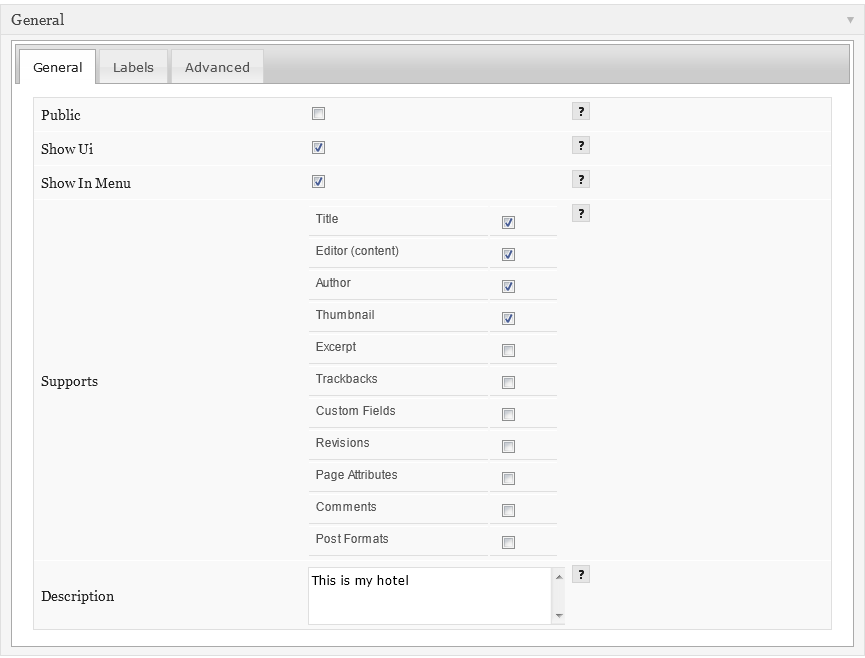
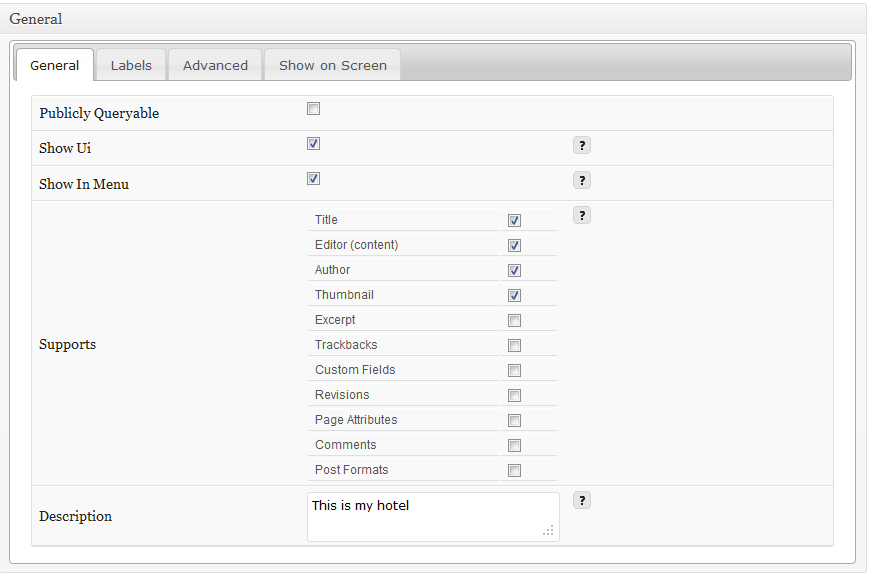
git-svn-id: https://plugins.svn.wordpress.org/mp-former/trunk@416145 b8457f37-d9ea-0310-8a92-e5e31aec5664

diff --git a/view/html/mp_object_taxons.html b/view/html/mp_object_taxons.html
@@ -10,10 +10,35 @@
                     <td><input type="text" name="mp_[object][object_taxons][#n][title]" /></td>
                     <td><span id="t_object_taxons_title" class="mp-ui-state-default ui-corner-all ui-icon ui-icon-help"></span></td>
                 </tr>
-                 <tr>
+                <tr>
                     <th><label id="l_object_taxons_hierarchical"></label></th>
                     <td><input type="checkbox" name="mp_[object][object_taxons][#n][hierarchical]" value="1" /></td>
                     <td><span id="t_object_taxons_hierarchical" class="mp-ui-state-default ui-corner-all ui-icon ui-icon-help"></span></td>
+                </tr>
+                <tr>
+                    <th><label id="l_object_taxons_rewrite"></label></th>
+                    <td><input type="checkbox" name="mp_[object][object_taxons][rewrite]" value="1" /></td>
+                    <td><span id="t_object_taxons_rewrite" class="mp-ui-state-default ui-corner-all ui-icon ui-icon-help"></span></td>
+                </tr>
+                <tr>
+                    <th><label id="l_object_taxons_query_var"></label></th>
+                    <td><input type="checkbox" name="mp_[object][object_taxons][query_var]" value="1" /></td>
+                    <td><span id="t_object_taxons_query_var" class="mp-ui-state-default ui-corner-all ui-icon ui-icon-help"></span></td>
+                </tr>
+                <tr>
+                    <th><label id="l_object_taxons_show_ui"></label></th>
+                    <td><input type="checkbox" name="mp_[object][object_taxons][show_ui]" value="1" /></td>
+                    <td><span id="t_object_taxons_show_ui" class="mp-ui-state-default ui-corner-all ui-icon ui-icon-help"></span></td>
+                </tr>
+                <tr>
+                    <th><label id="l_object_taxons_show_in_nav_menus"></label></th>
+                    <td><input type="checkbox" name="mp_[object][object_taxons][show_in_nav_menus]" value="1" /></td>
+                    <td><span id="t_object_taxons_show_in_nav_menus" class="mp-ui-state-default ui-corner-all ui-icon ui-icon-help"></span></td>
+                </tr>
+                <tr>
+                    <th><label id="l_object_taxons_show_tagcloud"></label></th>
+                    <td><input type="checkbox" name="mp_[object][object_taxons][show_tagcloud]" value="1" /></td>
+                    <td><span id="t_object_taxons_show_tagcloud" class="mp-ui-state-default ui-corner-all ui-icon ui-icon-help"></span></td>
                 </tr>
                 <tr>
                     <th><label id="l_object_taxons_labels_singular_name">Singular Name</label></th>
@@ -60,7 +85,7 @@
                     <td><input type="text" name="mp_[object][object_taxons][#n][labels][new_item_name]" /></td>
                     <td><span id="t_object_taxons_labels_new_item_name" class="mp-ui-state-default ui-corner-all ui-icon ui-icon-help"></span></td>
                 </tr>
-                 <tr>
+                <tr>
                     <th><label id="l_object_taxons_separate_items_with_commas">Separate Items with Commas</label></th>
                     <td><input type="text" name="mp_[object][object_taxons][#n][labels][separate_items_with_commas]" /></td>
                     <td><span id="t_object_taxons_labels_separate_items_with_commas" class="mp-ui-state-default ui-corner-all ui-icon ui-icon-help"></span></td>

diff --git a/view/html/mp_object_args.html b/view/html/mp_object_args.html
@@ -105,11 +105,6 @@
                     <td><span id="t_object_args_labels_add_new_item" class="mp-ui-state-default ui-corner-all ui-icon ui-icon-help"></span></td>
                 </tr>
                 <tr>
-                    <th><label id="l_object_args_labels_edit"></label></th>
-                    <td><input type="text" name="mp_[object][object_args][labels][edit]" /></td>
-                    <td><span id="t_object_args_labels_edit" class="mp-ui-state-default ui-corner-all ui-icon ui-icon-help"></span></td>
-                </tr>
-                <tr>
                     <th><label id="l_object_args_labels_edit_item"></label></th>
                     <td><input type="text" name="mp_[object][object_args][labels][edit_item]" /></td>
                     <td><span id="t_object_args_labels_edit_item" class="mp-ui-state-default ui-corner-all ui-icon ui-icon-help"></span></td>
@@ -118,11 +113,6 @@
                     <th><label id="l_object_args_labels_new_item"></label></th>
                     <td><input type="text" name="mp_[object][object_args][labels][new_item]" /></td>
                     <td><span id="t_object_args_labels_new_item" class="mp-ui-state-default ui-corner-all ui-icon ui-icon-help"></span></td>
-                </tr>
-                <tr>
-                    <th><label id="l_object_args_labels_view"></label></th>
-                    <td><input type="text" name="mp_[object][object_args][labels][view]" /></td>
-                    <td><span id="t_object_args_labels_view" class="mp-ui-state-default ui-corner-all ui-icon ui-icon-help"></span></td>
                 </tr>
                 <tr>
                     <th><label id="l_object_args_labels_view_item"></label></th>
@@ -143,6 +133,11 @@
                     <th><label id="l_object_args_labels_not_found_in_trash"></label></th>
                     <td><input type="text" name="mp_[object][object_args][labels][not_found_in_trash]" /></td>
                     <td><span id="t_object_args_labels_not_found_in_trash" class="mp-ui-state-default ui-corner-all ui-icon ui-icon-help"></span></td>
+                </tr>
+                <tr>
+                    <th><label id="l_object_args_labels_parent_item_colon"></label></th>
+                    <td><input type="text" name="mp_[object][object_args][labels][parent_item_colon]" /></td>
+                    <td><span id="t_object_args_labels_parent_item_colon" class="mp-ui-state-default ui-corner-all ui-icon ui-icon-help"></span></td>
                 </tr>
             </tbody>
         </table>

diff --git a/view/html/mp_object_stats.html b/view/html/mp_object_stats.html
@@ -20,11 +20,13 @@
                     <td><input type="text" name="mp_[object][object_stats][#n][label_count][plural]" /></td>
                     <td><span id="t_object_stats_label_count_plural" class="mp-ui-state-default ui-corner-all ui-icon ui-icon-help"></span></td>
                 </tr>
+                <!--
                 <tr>
                     <th><label id="l_object_stats_show_in_admin_all"></label></th>
                     <td><input type="checkbox" name="mp_[object][object_stats][#n][show_in_admin_all]" value="1" /></td>
                     <td><span id="t_object_stats_show_in_admin_all" class="mp-ui-state-default ui-corner-all ui-icon ui-icon-help"></span></td>
                 </tr>
+                -->
                 <tr>
                     <th><label id="l_object_stats_show_in_admin_all_list"></label></th>
                     <td><input type="checkbox" name="mp_[object][object_stats][#n][show_in_admin_all_list]" value="1" /></td>

diff --git a/mp_config.php b/mp_config.php
@@ -57,6 +57,50 @@ define('T_OBJECT_ARGS_MENU_POSITION', 'The position in the menu order the post t
 define('T_OBJECT_ARGS_CAPABILITY_TYPE', 'The string to use to build the read, edit, and delete capabilities. By default the capability_type is used as a base to construct capabilities. Default: "post"');
 define('T_OBJECT_ARGS_SUPPORTS', 'An alias for calling add_post_type_support() directly.');
 define('T_OBJECT_ARGS_CAN_EXPORT', 'True allows this post type to be exported.');
+define('T_OBJECT_ARGS_PUBLICLY_QUERYABLE', 'Whether post_type queries can be performed from the front page.');
+define('T_OBJECT_ARGS_LABELS_ADD_NEW', 'The add new text. The default is Add New for both hierarchical and non-hierarchical types.');
+define('T_OBJECT_ARGS_LABELS_ADD_NEW_ITEM', 'The add new item text. Default is Add New Post/Add New Page');
+define('T_OBJECT_ARGS_LABELS_EDIT_ITEM', 'The edit item text. Default is Edit Post/Edit Page');
+define('T_OBJECT_ARGS_LABELS_NEW_ITEM', 'The new item text. Default is New Post/New Page ');
+define('T_OBJECT_ARGS_LABELS_VIEW_ITEM', 'The view item text. Default is View Post/View Page');
+define('T_OBJECT_ARGS_LABELS_SEARCH_ITEMS', 'The search items text. Default is Search Posts/Search Pages ');
+define('T_OBJECT_ARGS_LABELS_NOT_FOUND', 'The not found text. Default is No posts found/No pages found ');
+define('T_OBJECT_ARGS_LABELS_NOT_FOUND_IN_TRASH', 'The not found in trash text. Default is No posts found in Trash/No pages found in Trash ');
+define('T_OBJECT_ARGS_LABELS_PARENT_ITEM_COLON', 'The parent text. This string isn\'t used on non-hierarchical types. In hierarchical ones the default is Parent Page ');
+define('T_OBJECT_ARGS_EXCLUDE_FROM_SEARCH', 'Whether to exclude posts with this post type from search results. Default: value of the opposite of the public argument ');
+define('T_OBJECT_ARGS_MAP_META_CAP', 'Whether to use the internal default meta capability handling. Default: false');
+define('T_OBJECT_ARGS_HIERARCHICAL', 'Whether the post type is hierarchical. Allows Parent to be specified. Default: false');
+define('T_OBJECT_ARGS_PERMALINK_EPMASK', 'The default rewrite endpoint bitmasks. For more info see Trac Ticket 12605. Default: EP_PERMALINK ');
+define('T_OBJECT_ARGS_HAS_ARCHIVE', 'Enables post type archives. Will use string as archive slug. Will generate the proper rewrite rules if rewrite is enabled. Default: false');
+define('T_OBJECT_ARGS_REWRITE', 'Rewrite permalinks with this format. False to prevent rewrite. Default: true and use post type as slug ');
+define('T_OBJECT_ARGS_QUERY_VAR', 'False to prevent queries, or string value of the query var to use for this post type. Default: true - set to $post_type ');
+define('T_OBJECT_STATS_TITLE', 'Status title to show on backend');
+define('T_OBJECT_STATS_LABEL_COUNT_SINGULAR', 'Label for status if there is only one post. Default: Status title %s');
+define('T_OBJECT_STATS_LABEL_COUNT_PLURAL', 'Label for status if there are more than one post. Default: Status titles %s');
+//define('t_object_stats_show_in_admin_all', 'Whether to include posts in the edit listing for their post type');
+define('T_OBJECT_STATS_SHOW_IN_ADMIN_ALL_LIST', 'Whether to include posts in the edit listing for their post type');
+define('T_OBJECT_STATS_SHOW_IN_ADMIN_STATUS_LIST', 'Show in the list of statuses with post counts at the top of the edit listings, e.g. All (12) | Published (9) | My Custom Status (2) ...');
+define('T_OBJECT_STATS_EXCLUDE_FROM_SEARCH', 'Whether to exclude posts with this post status from search results. Defaults to false.');
+define('T_OBJECT_STATS_VISIBILITY', 'Post type behaviour with current status');
+define('T_OBJECT_TAXONS_TITLE', 'Name of the taxonomy shown in the menu. Usually plural. If not set, labels[\'name\'] will be used.');
+define('T_OBJECT_TAXONS_HIERARCHICAL', 'Has some defined purpose at other parts of the API and is a boolean value.');
+define('T_OBJECT_TAXONS_REWRITE', 'False to prevent rewrite, or array(\'slug\'=>$slug) to customize permastruct; default will use $taxonomy as slug.');
+define('T_OBJECT_TAXONS_QUERY_VAR', 'False to prevent queries, or string to customize query var (?$query_var=$term); default will use $taxonomy as query var.');
+define('T_OBJECT_TAXONS_SHOW_UI', 'If the WordPress UI admin tags UI should apply to this taxonomy; defaults to public.');
+define('T_OBJECT_TAXONS_SHOW_IN_NAV_MENUS', 'True makes this taxonomy available for selection in navigation menus. Defaults to public.');
+define('T_OBJECT_TAXONS_SHOW_TAGCLOUD', 'False to prevent the taxonomy being listed in the Tag Cloud Widget; defaults to show_ui which defalts to public.');
+define('T_OBJECT_TAXONS_LABELS_SINGULAR_NAME', 'The single name text');
+define('T_OBJECT_TAXONS_LABELS_SEARCH_ITEMS', 'The search items text');
+define('T_OBJECT_TAXONS_LABELS_ALL_ITEMS', 'The All items text');
+define('T_OBJECT_TAXONS_LABELS_POPULAR_ITEMS', 'The polupar items text');
+define('T_OBJECT_TAXONS_LABELS_PARENT_ITEM', 'The parent item text');
+define('T_OBJECT_TAXONS_LABELS_EDIT_ITEM', 'The edit item text');
+define('T_OBJECT_TAXONS_LABELS_UPDATE_ITEM', 'The update item text');
+define('T_OBJECT_TAXONS_LABELS_ADD_NEW_ITEM', 'The add new item text');
+define('T_OBJECT_TAXONS_LABELS_NEW_ITEM_NAME', 'The new item name text');
+define('T_OBJECT_TAXONS_LABELS_SEPARATE_ITEMS_WITH_COMMAS', 'The separate items with commas text');
+define('T_OBJECT_TAXONS_LABELS_ADD_OR_REMOVE_ITEMS', 'The add or remove items text');
+define('T_OBJECT_TAXONS_LABELS_CHOOSE_FROM_MOST_USED', 'The choose from most used text');
 
 /*
  * Error constants

diff --git a/mp_former.php b/mp_former.php
@@ -3,8 +3,8 @@
 /*
   Plugin Name: MP Former
   Description: Graphic UI for Custom Post Type building
-  Version: 0.4.1
-  Author: Vasyl Martyniuk, Benjamin Petersen
+  Version: 0.4.2
+  Author: Vasyl Martyniuk  <admin@whimba.com>, Benjamin Petersen
   Author URI: http://www.whimba.com
  */
 
